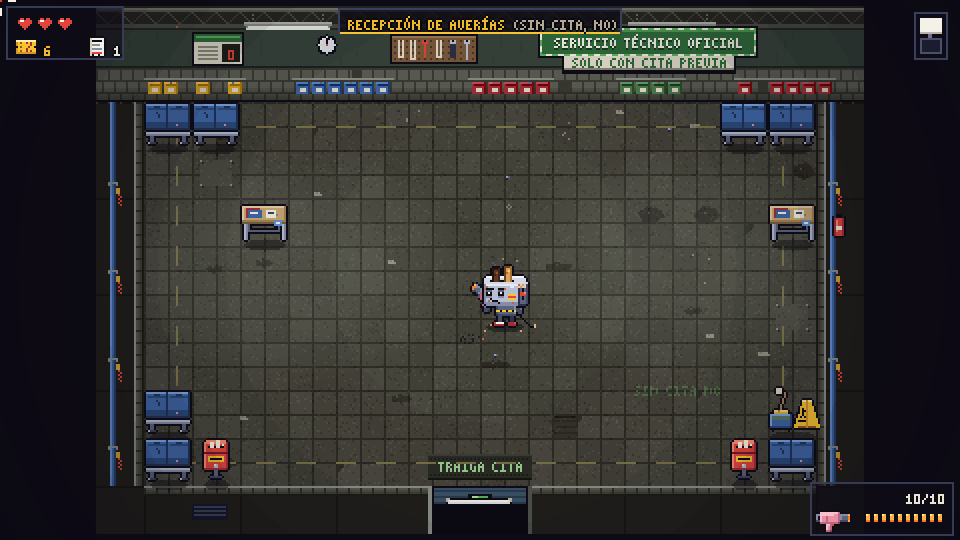
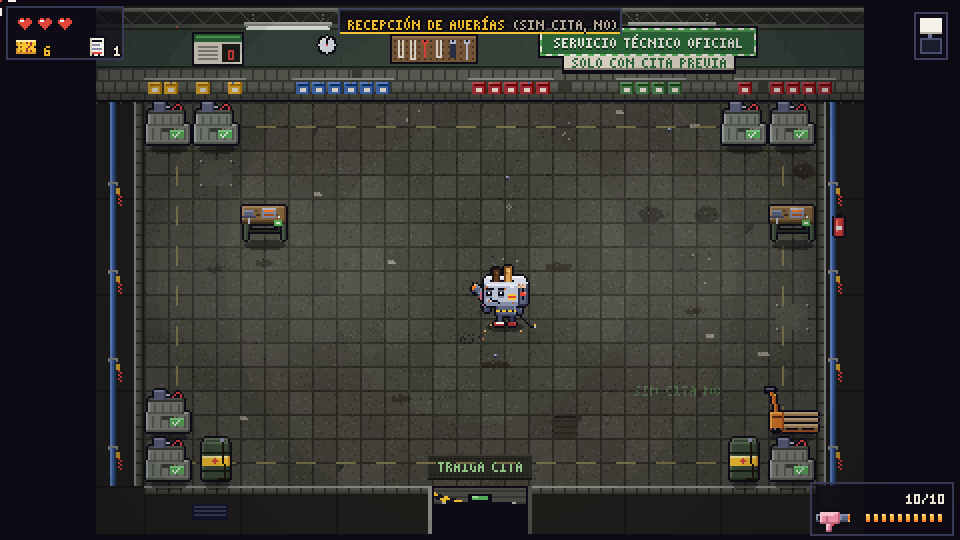
M12 (3b2): los muebles del taller (cajas de piezas, bidón de grasa, transpaleta y banco de trabajo que se vuelca) y sus persianas «AVERIADA»; cada planta usa su versión -N de los muebles
Claude-Session: https://claude.ai/code/session_01LyCe1Q6H1GZtWVZy7q7Ezh

diff --git a/tools/sprites/props.ts b/tools/sprites/props.ts
@@ -372,6 +372,92 @@ export function makeWetFloorSign(): Canvas {
   return outline(cv);
 }
 
+// Floor 6 (the Taller de Reacondicionado) versions of the three obstacles: same footprint and collision box again.
+
+const CRATE = ramp('#a8aea4', '#7c8278', '#5a5e56', '#3a3d36');
+const WS_GREEN = ramp('#8ad88a', '#58b45a', '#3a7a3e', '#22482a');
+
+/** «Caja» on floor 6: two grey stacking crates of parts, the top one overflowing (a motor, a coil of cable), with the green label. */
+export function makePartsCrates(): Canvas {
+  const cv = new Canvas(24, 24);
+  // The bottom crate: ribbed grey plastic with the hand hole.
+  box(cv, 1, 13, 22, 10, CRATE);
+  for (let x = 4; x < 21; x += 4) cv.rect(x, 15, 1, 6, CRATE[2]!);
+  cv.rect(9, 15, 6, 2, CRATE[3]!);
+  // The top crate, shorter and a little to the left (stacked in a hurry).
+  box(cv, 2, 6, 18, 8, CRATE);
+  cv.rect(2, 6, 18, 2, CRATE[3]!);
+  cv.rect(3, 6, 16, 1, CRATE[2]!);
+  for (let x = 5; x < 18; x += 4) cv.rect(x, 9, 1, 4, CRATE[2]!);
+  // What sticks out of it: a small motor (a cylinder with its shaft) and a loop of red cable.
+  cv.rect(5, 2, 6, 5, DSTEEL[1]!);
+  cv.rect(5, 2, 6, 1, DSTEEL[0]!);
+  cv.rect(10, 2, 1, 5, DSTEEL[2]!);
+  cv.rect(11, 4, 2, 1, STEEL[1]!);
+  for (const [x, y] of [[14, 5], [15, 4], [16, 3], [17, 3], [18, 4], [18, 5]] as const) cv.set(x, y, RED[1]!);
+  // The label: «Reacondicionado · como nuevo», green with a white tick.
+  cv.rect(13, 16, 7, 4, WS_GREEN[1]!);
+  cv.rect(13, 16, 7, 1, WS_GREEN[0]!);
+  cv.set(14, 18, WHITE);
+  cv.set(15, 19, WHITE);
+  cv.set(16, 18, WHITE);
+  cv.set(17, 17, WHITE);
+  return outline(cv);
+}
+
+/** «Barril» on floor 6: a drum of used grease (it goes up the same): black-green steel, the yellow band, grease running down. */
+export function makeGreaseDrum(): Canvas {
+  const cv = new Canvas(16, 24);
+  const D = ramp('#5a6a52', '#3a4a36', '#26321f', '#151c12');
+  box(cv, 1, 4, 14, 19, D);
+  // The lid seen from above, with its bung.
+  cv.rect(2, 2, 12, 3, D[0]!);
+  cv.rect(3, 3, 10, 1, D[1]!);
+  cv.rect(10, 2, 2, 2, STEEL[2]!);
+  // The rolling hoops.
+  cv.rect(1, 9, 14, 1, D[3]!);
+  cv.rect(1, 18, 14, 1, D[3]!);
+  // The yellow band with the flame diamond.
+  cv.rect(1, 11, 14, 5, YEL[1]!);
+  cv.rect(1, 11, 14, 1, YEL[0]!);
+  cv.rect(14, 11, 1, 5, YEL[2]!);
+  cv.set(7, 12, RED[1]!);
+  cv.rect(6, 13, 3, 1, RED[1]!);
+  cv.set(7, 14, RED[1]!);
+  // Grease down the side, from the bung, and a puddle at the foot.
+  for (let j = 4; j < 22; j++) cv.set(11 + (j > 14 ? 1 : 0), j, hx('#1a1408'));
+  cv.set(12, 8, hx('#4a3a1a'));
+  cv.rect(9, 22, 6, 1, hx('#1a1408'));
+  return outline(cv);
+}
+
+/** «Carrito» on floor 6: a pallet jack, orange, its forks under an empty pallet and the handle up (low: bullets go over it). */
+export function makePalletJack(): Canvas {
+  const cv = new Canvas(28, 24);
+  const O = ramp('#ffb347', '#e07a2a', '#a8521c', '#5a2a10');
+  const PAL = ramp('#d2b184', '#a98258', '#7a5a3c', '#4f3a28');
+  // The pallet: three planks on top, the blocks at the front.
+  for (const y of [13, 16, 19]) {
+    cv.rect(9, y, 18, 2, PAL[1]!);
+    cv.rect(9, y, 18, 1, PAL[0]!);
+  }
+  for (const x of [9, 17, 25]) cv.rect(x, 21, 2, 2, PAL[2]!);
+  // The forks, sticking out from under it.
+  cv.rect(9, 22, 17, 1, O[2]!);
+  // The hydraulic unit and its wheel.
+  box(cv, 3, 13, 7, 9, O);
+  cv.rect(4, 15, 5, 1, O[3]!);
+  cv.rect(4, 21, 4, 2, K);
+  cv.set(5, 21, DSTEEL[0]!);
+  // The handle, leaning back, with its grip and the lever.
+  for (let j = 0; j < 11; j++) cv.set(5 - Math.floor(j / 4), 12 - j, O[1]!);
+  for (let j = 0; j < 11; j++) cv.set(6 - Math.floor(j / 4), 12 - j, O[2]!);
+  cv.rect(0, 1, 6, 2, K);
+  cv.rect(1, 1, 4, 1, DSTEEL[1]!);
+  cv.set(5, 4, YEL[1]!);
+  return outline(cv);
+}
+
 /** Player shot: 8x8 orange ball with a yellow core (build2.shot8). */
 export function makeShot(): Canvas {
   const cv = new Canvas(8, 8);
@@ -590,6 +676,8 @@ export function makeShutterFrames(w: number, h: number, level = 1): Canvas {
   const [slat, groove, a, b] =
     level === 5
       ? ['#3a5266', '#2a3c4c', '#8aa0b0', '#263e50']
+      : level === 6
+      ? ['#4c4e46', '#383a32', '#58b45a', '#e2dccc']
       : level === 4
       ? ['#4a4952', '#36353c', '#6a6974', '#3a3940']
       : level === 3
@@ -607,6 +695,7 @@ export function makeShutterFrames(w: number, h: number, level = 1): Canvas {
     if (level === 3) fairLights(f, w, h);
     if (level === 4) meetingSign(f, w, h);
     if (level === 5) closedSign(f, w, h);
+    if (level === 6) brokenSign(f, w, h);
     out.blit(f, i * w, 0);
   });
   return out;
@@ -669,6 +758,40 @@ function closedSign(f: Canvas, w: number, h: number): void {
   f.set(x + tw, ay + 1, hx('#2f4a6a'));
   f.set(x + tw + 1, ay, hx('#2f4a6a'));
   // The tape at the corners.
+  f.rect(x, y - 1, 2, 2, [230, 226, 200, 200]);
+  f.rect(x + tw + 4, y - 1, 2, 2, [230, 226, 200, 200]);
+}
+
+/**
+ * «Averiada»: the Servicio Técnico's own shutter is out of order, with yellow and black tape
+ * across it and a hand-written card (nobody has opened a ticket).
+ */
+function brokenSign(f: Canvas, w: number, h: number): void {
+  // The tape, a diagonal across the whole shutter.
+  for (let x = 1; x < w - 1; x++) {
+    const y = Math.round(3 + ((h - 9) * x) / w);
+    for (let k = 0; k < 3; k++) f.set(x, y + k, Math.floor((x + k) / 3) % 2 === 0 ? hx('#f6c431') : hx('#191622'));
+  }
+  const word = 'AVERIADA';
+  const tw = stencilWidth(word);
+  if (tw + 6 > w - 4 || h < 22) {
+    // Side shutters: a small card with a red cross.
+    const x = Math.floor(w / 2) - 4;
+    const y = Math.min(h - 16, 14);
+    f.rect(x, y, 9, 9, K);
+    f.rect(x + 1, y + 1, 7, 7, hx('#e2dccc'));
+    for (let i = 0; i < 5; i++) {
+      f.set(x + 2 + i, y + 2 + i, RED[1]!);
+      f.set(x + 6 - i, y + 2 + i, RED[1]!);
+    }
+    return;
+  }
+  const x = Math.floor((w - tw) / 2) - 3;
+  const y = Math.min(h - 15, 12);
+  f.rect(x, y - 1, tw + 6, 9, K);
+  f.rect(x + 1, y, tw + 4, 7, hx('#e2dccc'));
+  f.rect(x + 1, y, tw + 4, 1, WHITE);
+  stencil(f, x + 3, y + 3, word, RED[2]!);
   f.rect(x, y - 1, 2, 2, [230, 226, 200, 200]);
   f.rect(x + tw + 4, y - 1, 2, 2, [230, 226, 200, 200]);
 }
@@ -1563,7 +1686,7 @@ interface TableLook {
   tag: (cv: Canvas, x: number, y: number) => void;
 }
 
-const TABLE_LOOKS: Record<1 | 2 | 3 | 4 | 5, TableLook> = {
+const TABLE_LOOKS: Record<1 | 2 | 3 | 4 | 5 | 6, TableLook> = {
   1: {
     top: ramp('#c99e6a', '#a77c4c', '#7d5a36', '#553c24'),
     under: ramp('#8f6c40', '#6e5232', '#523c24', '#3a2a1a'),
@@ -1660,6 +1783,34 @@ const TABLE_LOOKS: Record<1 | 2 | 3 | 4 | 5, TableLook> = {
       cv.rect(x + 1, y + 1, 3, 1, WHITE);
     },
   },
+  // Floor 6: a workbench, a thick beech top black with oil on green steel legs; a vice, and a toaster opened up on it.
+  6: {
+    top: ramp('#a8865a', '#86683e', '#5e4a2c', '#3e301c'),
+    under: ramp('#6a7a62', '#4e5c48', '#3a4636', '#262e22'),
+    leg: ramp('#7a8c72', '#4e5c48', '#3a4636', '#262e22'),
+    dress: (cv, edgeY) => {
+      // The vice bolted to the corner, its jaws and handle.
+      cv.rect(4, edgeY - 5, 5, 4, DSTEEL[1]!);
+      cv.rect(4, edgeY - 5, 5, 1, DSTEEL[0]!);
+      cv.rect(3, edgeY - 2, 7, 1, DSTEEL[2]!);
+      cv.rect(6, edgeY - 1, 1, 3, STEEL[1]!);
+      // A toaster with its casing off: the element glowing faintly, a screw beside it.
+      cv.rect(13, edgeY - 6, 7, 5, STEEL[2]!);
+      cv.rect(13, edgeY - 6, 7, 1, STEEL[1]!);
+      cv.rect(14, edgeY - 5, 5, 1, hx('#ff7a1f'));
+      cv.rect(14, edgeY - 3, 5, 1, hx('#a8521c'));
+      cv.set(21, edgeY - 2, STEEL[0]!);
+      // Oil soaked into the wood.
+      cv.rect(10, edgeY - 3, 2, 1, hx('#3e301c'));
+      // The green label on the edge.
+      cv.rect(19, edgeY, 4, 3, WS_GREEN[1]!);
+      cv.rect(20, edgeY + 1, 2, 1, WHITE);
+    },
+    tag: (cv, x, y) => {
+      cv.rect(x, y, 5, 3, WS_GREEN[1]!);
+      cv.rect(x + 1, y + 1, 3, 1, WHITE);
+    },
+  },
 };
 
 function tableStanding(L: TableLook): Canvas {
@@ -1750,7 +1901,7 @@ function mirror(cv: Canvas): Canvas {
   return out;
 }
 
-export function makeTableFrames(level: 1 | 2 | 3 | 4 | 5): Canvas[] {
+export function makeTableFrames(level: 1 | 2 | 3 | 4 | 5 | 6): Canvas[] {
   const L = TABLE_LOOKS[level];
   const east = tableEast(L);
   return [tableStanding(L), tableNorth(L), tableSouth(L), east, mirror(east)];

diff --git a/src/render/GameScene.ts b/src/render/GameScene.ts
@@ -3300,7 +3300,7 @@ export class GameScene extends Phaser.Scene {
     for (let i = 0; i < 5; i++) this.puff(e.x + this.fx.range(-10, 10), e.y - this.fx.range(2, 10), this.fx.range(0.4, 0.8));
     // A few planks stay on the floor.
     const lv = this.world.level;
-    const wood = lv >= 5 ? 0xa08458 : lv >= 4 ? 0x84838c : lv >= 3 ? 0xb08a2a : lv > 1 ? 0xa99b74 : 0x7d5a36;
+    const wood = lv >= 6 ? 0x86683e : lv >= 5 ? 0xa08458 : lv >= 4 ? 0x84838c : lv >= 3 ? 0xb08a2a : lv > 1 ? 0xa99b74 : 0x7d5a36;
     for (let i = 0; i < 3; i++) {
       this.add.rectangle(e.x + this.fx.range(-10, 10), e.y - this.fx.range(1, 9), this.fx.int(4, 7), 2, wood, 1).setAngle(this.fx.pick([0, 0, 90, 30, -30])).setDepth(-48990);
     }
@@ -3325,7 +3325,7 @@ export class GameScene extends Phaser.Scene {
   private splinter(x: number, y: number, a: number, tint?: number): void {
     const sp = this.fx.range(30, 80);
     const lv = this.world.level;
-    const wood = lv >= 5 ? 0xc8a874 : lv >= 4 ? 0xa8a7b0 : lv >= 3 ? 0xe0b23c : lv > 1 ? 0xd4c79f : 0xa77c4c;
+    const wood = lv >= 6 ? 0xa8865a : lv >= 5 ? 0xc8a874 : lv >= 4 ? 0xa8a7b0 : lv >= 3 ? 0xe0b23c : lv > 1 ? 0xd4c79f : 0xa77c4c;
     const s = this.add.image(x, y, 'chispas', this.fx.int(1, 2)).setTint(tint ?? wood);
     const vz = this.fx.range(40, 90);
     this.particles.push({ s, vx: Math.cos(a) * sp, vy: Math.sin(a) * sp * 0.5, z: 4, vz, life: 0.6, maxLife: 0.6, gravity: true, spin: this.fx.range(-10, 10), fade: true, fadeTime: 0.2 });
@@ -3520,8 +3520,8 @@ export class GameScene extends Phaser.Scene {
 
   /** The texture of this floor for a sprite that changes from floor to floor (`<key>-2` upstairs), or the plain one. */
   private levelKey(key: string): string {
-    // The Servicio Técnico (level 6) has its own tiles (src/art/taller.ts) but floor 5's furniture and shutters until M12 (3b2).
-    const level = Math.min(this.world.level, LAST_LEVEL);
+    // Floors 2 to 6 (the Servicio Técnico) each have their own; anything without one uses the warehouse's.
+    const level = this.world.level;
     const own = `${key}-${level}`;
     return level > 1 && this.textures.exists(own) ? own : key;
   }

diff --git a/tools/sprites/build.ts b/tools/sprites/build.ts
@@ -164,12 +164,17 @@ export function allSheets(): Record<string, { canvas: Canvas; frameW: number; fr
     'caja-5': one(P.makeWaitingChairs()),
     'barril-5': one(P.makeComplaintsBox()),
     'carrito-5': one(P.makeWetFloorSign()),
+    // Floor 6 (Taller de Reacondicionado): crates of parts, a drum of used grease, a pallet jack.
+    'caja-6': one(P.makePartsCrates()),
+    'barril-6': one(P.makeGreaseDrum()),
+    'carrito-6': one(P.makePalletJack()),
     // M9b (13b): the table that tips over: 0 standing, tipped to face 1 N, 2 S, 3 E, 4 W.
     mesa: { canvas: strip(P.makeTableFrames(1)), frameW: 28, frameH: 28 },
     'mesa-2': { canvas: strip(P.makeTableFrames(2)), frameW: 28, frameH: 28 },
     'mesa-3': { canvas: strip(P.makeTableFrames(3)), frameW: 28, frameH: 28 },
     'mesa-4': { canvas: strip(P.makeTableFrames(4)), frameW: 28, frameH: 28 },
     'mesa-5': { canvas: strip(P.makeTableFrames(5)), frameW: 28, frameH: 28 },
+    'mesa-6': { canvas: strip(P.makeTableFrames(6)), frameW: 28, frameH: 28 },
     'bala-jugador': one(P.makeShot()),
     // Plastilina Mezclada: a stuck bullet (0-1 wobbling, 2-3 with glitter for Manualidades).
     'pegote-plastilina': { canvas: strip(P.makePegoteFrames()), frameW: 12, frameH: 10 },
@@ -220,6 +225,9 @@ export function allSheets(): Record<string, { canvas: Canvas; frameW: number; fr
     'persiana-n-5': { canvas: P.makeShutterFrames(48, 33, 5), frameW: 48, frameH: 33 },
     'persiana-s-5': { canvas: P.makeShutterFrames(48, 24, 5), frameW: 48, frameH: 24 },
     'persiana-v-5': { canvas: P.makeShutterFrames(24, 48, 5), frameW: 24, frameH: 48 },
+    'persiana-n-6': { canvas: P.makeShutterFrames(48, 33, 6), frameW: 48, frameH: 33 },
+    'persiana-s-6': { canvas: P.makeShutterFrames(48, 24, 6), frameW: 48, frameH: 24 },
+    'persiana-v-6': { canvas: P.makeShutterFrames(24, 48, 6), frameW: 24, frameH: 48 },
     montacargas: { canvas: P.makeGoodsLift(), frameW: 44, frameH: 34 },
     'montacargas-servicio': { canvas: P.makeServiceLift(), frameW: 44, frameH: 44 },
     'corazon-suelo': { canvas: P.makeSpareHeart(), frameW: 13, frameH: 12 },

diff --git a/tests/sprites.test.ts b/tests/sprites.test.ts
@@ -58,11 +58,11 @@ test('cada hoja de sprites se divide en fotogramas enteros', async () => {
   }
 });
 
-test('las versiones de las plantas 2 a 5 (<id>-2 … <id>-5) miden lo mismo que las del almacén, fotograma a fotograma', async () => {
+test('las versiones de las plantas 2 a 6 (<id>-2 … <id>-6) miden lo mismo que las del almacén, fotograma a fotograma', async () => {
   const { allSheets } = await import('../tools/sprites/build.ts');
   const sheets = allSheets();
-  const upstairs = Object.keys(sheets).filter((k) => /-[2345]$/.test(k));
-  for (const lv of [2, 3, 4, 5]) {
+  const upstairs = Object.keys(sheets).filter((k) => /-[23456]$/.test(k));
+  for (const lv of [2, 3, 4, 5, 6]) {
     for (const want of ['caja', 'barril', 'carrito', 'mesa', 'persiana-n', 'persiana-s', 'persiana-v']) assert.ok(upstairs.includes(`${want}-${lv}`), `falta ${want}-${lv}`);
   }
   for (const k of upstairs) {

diff --git a/docs/BITACORA.md b/docs/BITACORA.md
@@ -2,6 +2,14 @@
 
 La entrada más reciente va arriba. Cada sesión añade una.
 
+## 2026-11-12 05:45 (hora peninsular) — Hito M12 — Los muebles y las persianas del taller
+- Contexto: misma sesión que la entrada de abajo; `en_curso` vacío al acabar la (3b1), cogí la (3b2).
+- Hecho: M12 (3b2). **Sprites nuevos** en `tools/sprites/props.ts`, mismas medidas y cajas de choque que los de abajo: `caja-6` (`makePartsCrates`: dos cajas de piezas grises apiladas de cualquier manera, un motor y un bucle de cable rojo asomando y la etiqueta verde con su visto bueno), `barril-6` (`makeGreaseDrum`: bidón negro verdoso de grasa usada, banda amarilla con la llama, grasa chorreando desde el tapón; estalla como todos), `carrito-6` (`makePalletJack`: transpaleta naranja con el palé vacío encima y el mango echado atrás; baja, las balas pasan) y `mesa-6` (un banco de trabajo: tablero de haya negro de aceite sobre patas verdes, un tornillo de banco y una tostadora abierta con la resistencia encendida; sus cinco fotogramas de volcar, y astillas del color de su madera al romperse). **Persianas** `persiana-{n,s,v}-6`: lamas grises de taller, el zócalo a rayas verdes y blancas del Servicio y una **cinta amarilla y negra en diagonal con el cartel «AVERIADA»** (en las laterales, una tarjeta con una cruz roja). `levelKey` (`GameScene`) ya no limita a la planta 5: cada planta usa su `-N` si existe. `tests/sprites.test.ts` pide ahora también las versiones `-6` con las mismas medidas.
+- Decisiones: **«Averiada»** en las persianas: el chiste de la planta es que el servicio técnico no arregla lo suyo; la cinta en diagonal se ve desde lejos. **La transpaleta y no una carretilla elevadora** como obstáculo: la carretilla queda para el enemigo propio de la (3c) (embiste); la transpaleta es baja, como el carro de abajo.
+- Medidas: no toca la simulación; `npm run bot` 200 partidas, 0 fallos, cifras idénticas. 781 tests en verde; e2e entero en verde.
+- Problemas conocidos: en la Zona de Embalaje, la rejilla de pilas de cajas repite mucho el mismo sprite (es la idea de la sala, pero una segunda variante de caja ayudaría).
+- Siguiente paso: M12 (3b3), las cintas transportadoras del suelo que arrastran (letra de plantilla con dirección, empuje en la simulación, dibujo animado, el bot las tiene en cuenta); o la (3c), un enemigo propio del taller.
+
 ## 2026-11-12 05:01 (hora peninsular, de `date` + 1) — Hito M12 — El suelo y las paredes del Taller de Reacondicionado
 - Contexto: la (4a) la tenía otra sesión (55 minutos en `en_curso`) y la terminó mientras yo trabajaba; cogí la (3b1), que solo toca el pintor de salas. Sin notas del humano pendientes. `check`, 771 tests, `build` y `bot` en verde al empezar.
 - Hecho: M12 (3b1). **Juego de losetas nuevo** `src/art/taller.ts` y **una rama más en el pintor** (`src/art/room.ts`: `five` pasa a ser solo la planta 5 y `six`, la 6 y las de arriba, va delante en las ~30 ramas por planta). Suelo: cuatro azulejos de 12 px por casilla, con su junta negra y un brillo de esmalte gastado; variaciones `grease`, `chipped`, `drain` (los desagües cuentan como las rejillas de abajo: pocos y nunca juntos), `bolts` (los pernos y la huella limpia de una máquina que ya no está), `gone` (el azulejo que falta, con el mortero rayado) y `solder`. Encima, charcos de aceite con su reguero, la **pasarela peatonal** amarilla con su muñequito (en vez de rodadas), zonas «EN REPARACIÓN / SIN PIEZA / DIAGNÓSTICO» y letras verdes en el suelo («COMO NUEVO», «GARANTÍA ANULADA», «SIN CITA NO»…). Basura: tornillos, muelles, arandelas y pegatinas verdes despegadas. **Paredes interiores: jaulas de piezas** (malla galvanizada en rombos con motores, bobinas y placas detrás, y a veces la etiqueta verde con su visto bueno). **Pared del fondo**: verde de fábrica arriba y azulejo de 6 px abajo (alguno roto o caído), gavetas de piezas de colores en su riel, un **panel de herramientas** con el contorno pintado de las que faltan, el **cartel «Días sin incidencias: 0»**, reloj parado y carteles («REACONDICIONADO», «DIAGNÓSTICO», «DESMONTAJE», «PIEZAS», «EMBALAJE», «CONTROL DE CALIDAD»; «TRITURACIÓN» en la del jefe). Techo: **cercha de acero** con **fluorescentes colgados de cadenas** y luz fría verdosa. Laterales: la **tubería azul de aire comprimido** con su acoplador y su manguera roja, y carteles de EPI obligatorio. Zócalo de azulejo. **El rótulo de la entrada** (`entranceSign`): caja verde con el borde de rayas verdes y blancas del montacargas, «SERVICIO TÉCNICO OFICIAL» en blanco y debajo la tira «SOLO CON CITA PREVIA»; como es ancho, en una sala con puerta al norte se prueba primero en el centro de cada lado de la puerta. Felpudo «TRAIGA CITA». La sala del jefe (la de la Trituradora, que entró a la vez) lleva **virutas** de metal por el suelo. Tests: cuatro nuevos en `tests/roomart.test.ts` (color caqui distinto de las otras cinco plantas e igual de oscuro; cartel, decoración y variaciones propias y nada de las plantas de abajo; el rótulo cabe sin pisar la puerta de arriba en cinco semillas; puertas libres y desagües); el que decía que la 6 se pinta como la 5 dice ahora que la 7 se pinta como la 6.

diff --git a/docs/DISENO.md b/docs/DISENO.md
@@ -585,7 +585,7 @@ y si no giran, sin tocar ninguna sala que no sea la de al lado); la Recepción d
 salas de combate (Banco de Pruebas, Almacén de Piezas, Línea de Desmontaje, Zona de Embalaje);
 cupones, corazones y garantías sí, tickets y cofres no; los enemigos de las cinco plantas con
 dureza 1,6 (la 5, 1,4) y tope 16, dibujados con la carcasa a gris y la pegatina verde en una
-esquina del cuerpo (`refurbishedOf`, en la escena). Su suelo y sus paredes (M12 (3b1), `src/art/taller.ts`): azulejo pequeño que fue blanco y la grasa ha dejado color hueso (caqui sucio, igual de oscuro que las otras plantas para que las balas se lean), con grasa, gotas de aceite, desagües, pernos de una máquina que se llevaron, azulejos que faltan y salpicaduras de soldadura; una pasarela peatonal pintada en amarillo; jaulas de piezas con la etiqueta verde como paredes interiores; pared verde de fábrica con azulejo abajo, gavetas de piezas, un panel de herramientas con el contorno de las que faltan y el cartel «Días sin incidencias: 0»; cercha de acero con fluorescentes colgados de cadenas, tubería de aire comprimido en las paredes; virutas en la sala del jefe, y en la Recepción el rótulo luminoso «Servicio Técnico Oficial · Solo con cita previa». Los muebles y las persianas, hasta la (3b2), son los de la planta 5,
+esquina del cuerpo (`refurbishedOf`, en la escena). Su suelo y sus paredes (M12 (3b1), `src/art/taller.ts`): azulejo pequeño que fue blanco y la grasa ha dejado color hueso (caqui sucio, igual de oscuro que las otras plantas para que las balas se lean), con grasa, gotas de aceite, desagües, pernos de una máquina que se llevaron, azulejos que faltan y salpicaduras de soldadura; una pasarela peatonal pintada en amarillo; jaulas de piezas con la etiqueta verde como paredes interiores; pared verde de fábrica con azulejo abajo, gavetas de piezas, un panel de herramientas con el contorno de las que faltan y el cartel «Días sin incidencias: 0»; cercha de acero con fluorescentes colgados de cadenas, tubería de aire comprimido en las paredes; virutas en la sala del jefe, y en la Recepción el rótulo luminoso «Servicio Técnico Oficial · Solo con cita previa». Sus muebles (M12 (3b2)): dos cajas de piezas grises apiladas con la etiqueta verde, un bidón de grasa usada (estalla igual), una transpaleta naranja bajo un palé vacío (baja: las balas pasan por encima), el banco de trabajo que se vuelca (tornillo de banco y una tostadora abierta encima) y persianas grises con cinta amarilla y negra y el cartel «AVERIADA» (en el Servicio Técnico nadie abre incidencia de lo suyo).
 y hasta la Trituradora (4a) la sala del jefe es la de la Centralita.
 
 **El jefe final, la Trituradora** (el Servicio Técnico en persona): una trituradora industrial

diff --git a/docs/HOJA_DE_RUTA.md b/docs/HOJA_DE_RUTA.md
@@ -480,7 +480,7 @@ Partido en tareas el 2026-11-12 (diseño en «El Servicio Técnico» de `docs/DI
     - [x] (3b1) El juego de losetas del taller (`src/art/taller.ts`: azulejo blanco con grasa, pared,
       fluorescentes fríos, jaulas de piezas como paredes interiores, carteles y plantillas del suelo)
       y el cartel de la entrada «Servicio Técnico Oficial».
-    - [ ] (3b2) Sus muebles (`-6`: cajas de piezas, bidones de grasa, transpaletas, bancos de trabajo)
+    - [x] (3b2) Sus muebles (`-6`: cajas de piezas, bidones de grasa, transpaletas, bancos de trabajo)
       y sus persianas.
     - [ ] (3b3) Las cintas transportadoras del suelo que arrastran a todo el que las pisa (letra de
       plantilla con dirección, empuje en la simulación, dibujo animado como la cinta del Mostrador,
